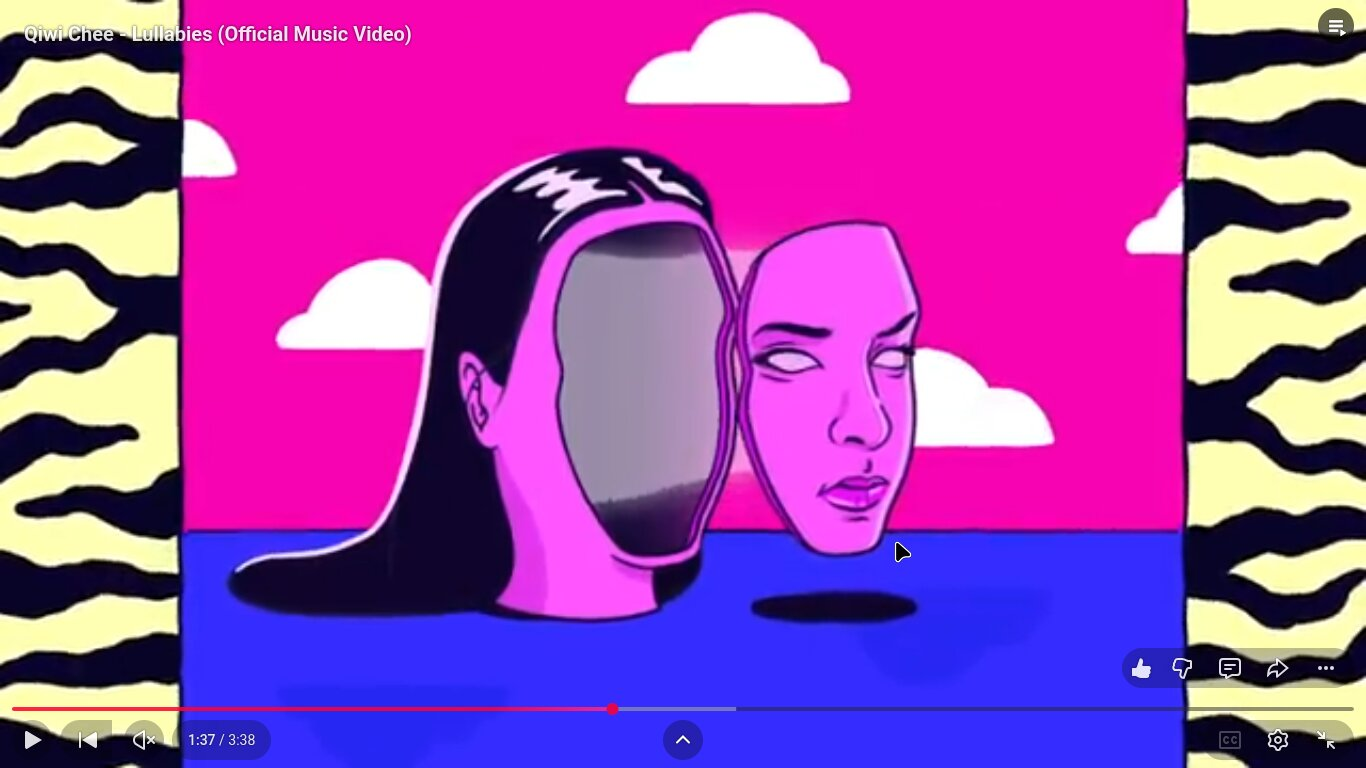
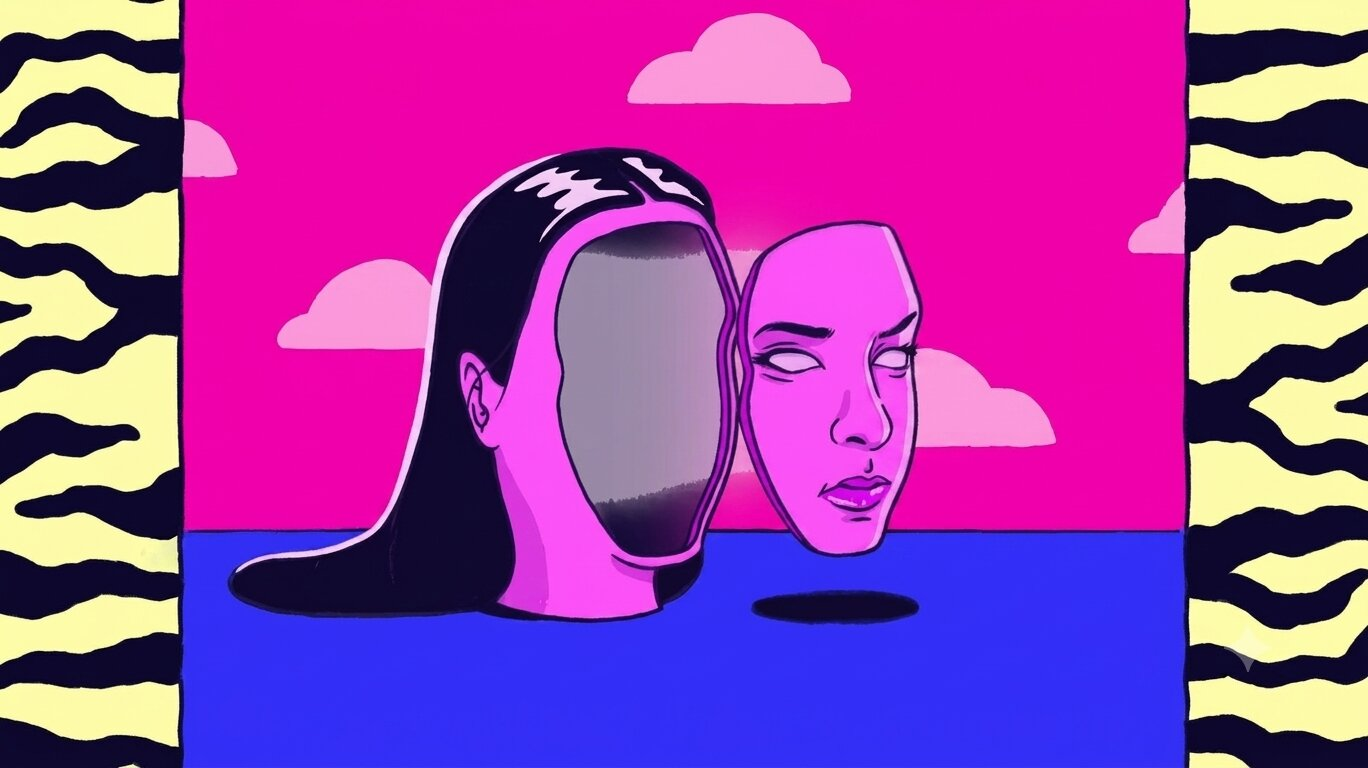
fix: single active player, card alignment, desktop arrows, overscroll, cleaner Lullabies visual

diff --git a/src/app/components/ReleaseSwitcher.tsx b/src/app/components/ReleaseSwitcher.tsx
@@ -27,6 +27,10 @@ const nameToIcon: Record<string, BrandName> = {
 export default function ReleaseSwitcher({ artistLinks }: ReleaseSwitcherProps) {
   const scrollerRef = useRef<HTMLDivElement>(null)
   const [activeIndex, setActiveIndex] = useState(0)
+  // Single active player: null = no embed playing.
+  const [activeEmbedSlug, setActiveEmbedSlug] = useState<string | null>(null)
+
+  const handleDeactivate = useCallback(() => setActiveEmbedSlug(null), [])
 
   // Hydration-safe random: DOM order is FIXED (canonical). Randomisation is ONLY
   // a scroll position applied after mount — SSR output is always deterministic.
@@ -43,7 +47,7 @@ export default function ReleaseSwitcher({ artistLinks }: ReleaseSwitcherProps) {
     setActiveIndex(randomIndex)
   }, [])
 
-  // One IntersectionObserver, two consumers: activeIndex state (dots) + aria-current.
+  // One IntersectionObserver, two consumers: activeIndex state (dots + arrows) + aria-current.
   useEffect(() => {
     const el = scrollerRef.current
     if (!el) return
@@ -64,6 +68,7 @@ export default function ReleaseSwitcher({ artistLinks }: ReleaseSwitcherProps) {
   }, [])
 
   const scrollToSlide = useCallback((index: number) => {
+    if (index < 0 || index >= releases.length) return
     const el = scrollerRef.current
     if (!el) return
     const slides = el.querySelectorAll<HTMLElement>('[data-release]')
@@ -75,61 +80,95 @@ export default function ReleaseSwitcher({ artistLinks }: ReleaseSwitcherProps) {
 
   return (
     <section aria-label="Musique — parcourir les sorties" className="mt-6">
-      {/* Scroll-snap container — tabIndex=0 enables arrow-key scrolling */}
-      <div
-        ref={scrollerRef}
-        role="group"
-        aria-roledescription="carrousel"
-        aria-label="Sorties"
-        tabIndex={0}
-        className="release-scroller flex overflow-x-auto gap-4 focus-visible:outline-none focus-visible:ring-2 focus-visible:ring-accent focus-visible:ring-offset-2 focus-visible:ring-offset-bg rounded-sm"
-      >
-        {releases.map((release, idx) => (
-          <div
-            key={release.slug}
-            data-release={release.slug}
-            role="group"
-            aria-label={`${release.title}, ${idx + 1} sur ${releases.length}`}
-            className="release-slide flex flex-col gap-4 pb-4"
-          >
-            {/* Title + descriptor */}
-            <div>
-              <h3 className="font-display text-xl font-semibold tracking-tight text-text">
-                {release.title}
-              </h3>
-              <p className="mt-1 text-sm text-muted">{release.descriptor}</p>
-              {release.date && (
-                <p className="text-xs text-muted">{release.date}</p>
-              )}
-            </div>
+      {/* Relative wrapper lets arrow buttons be absolutely positioned over carousel edges */}
+      <div className="relative">
+        {/* Scroll-snap container — tabIndex=0 enables arrow-key scrolling */}
+        <div
+          ref={scrollerRef}
+          role="group"
+          aria-roledescription="carrousel"
+          aria-label="Sorties"
+          tabIndex={0}
+          className="release-scroller flex overflow-x-auto gap-4 focus-visible:outline-none focus-visible:ring-2 focus-visible:ring-accent focus-visible:ring-offset-2 focus-visible:ring-offset-bg rounded-sm"
+        >
+          {releases.map((release, idx) => (
+            <div
+              key={release.slug}
+              data-release={release.slug}
+              role="group"
+              aria-label={`${release.title}, ${idx + 1} sur ${releases.length}`}
+              className="release-slide flex flex-col gap-4 pb-4"
+            >
+              {/* Title block — invisible date placeholder keeps all cards top-aligned
+                  when a release has no date (e.g. Lullabies). */}
+              <div>
+                <h3 className="font-display text-xl font-semibold tracking-tight text-text">
+                  {release.title}
+                </h3>
+                <p className="mt-1 text-sm text-muted">{release.descriptor}</p>
+                {release.date
+                  ? <p className="text-xs text-muted">{release.date}</p>
+                  : <p className="text-xs invisible" aria-hidden="true">{' '}</p>
+                }
+              </div>
 
-            {/* Artwork poster + lazy embed — artwork is the EmbedPlayer poster */}
-            <EmbedPlayer
-              asset={release.embed}
-              poster={release.artworkSrc}
-              posterAlt={release.artworkAlt}
-            />
+              {/* Artwork poster + lazy embed — controlled mode: only one iframe live at a time */}
+              <EmbedPlayer
+                asset={release.embed}
+                poster={release.artworkSrc}
+                posterAlt={release.artworkAlt}
+                isActive={activeEmbedSlug === release.slug}
+                onActivate={() => setActiveEmbedSlug(release.slug)}
+                onDeactivate={handleDeactivate}
+              />
 
-            {/* "Aussi sur →" — verified artist.links only (brief §5) */}
-            <div>
-              <p className="mb-2 text-xs font-medium text-muted">Aussi sur →</p>
-              <ul className="flex flex-wrap gap-1">
-                {artistLinks.map(({ name, href }) => (
-                  <li key={name}>
-                    <ExternalLink
-                      href={href}
-                      aria-label={`${release.title} sur ${name}, nouvel onglet`}
-                      showArrow={false}
-                      className="flex items-center justify-center rounded-md p-2.5 text-muted transition-colors duration-200 hover:text-accent focus-visible:outline-none focus-visible:ring-2 focus-visible:ring-accent focus-visible:ring-offset-2 focus-visible:ring-offset-bg"
-                    >
-                      <BrandIcon name={nameToIcon[name]} />
-                    </ExternalLink>
-                  </li>
-                ))}
-              </ul>
+              {/* "Aussi sur →" — verified artist.links only (brief §5) */}
+              <div>
+                <p className="mb-2 text-xs font-medium text-muted">Aussi sur →</p>
+                <ul className="flex flex-wrap gap-1">
+                  {artistLinks.map(({ name, href }) => (
+                    <li key={name}>
+                      <ExternalLink
+                        href={href}
+                        aria-label={`${release.title} sur ${name}, nouvel onglet`}
+                        showArrow={false}
+                        className="flex items-center justify-center rounded-md p-2.5 text-muted transition-colors duration-200 hover:text-accent focus-visible:outline-none focus-visible:ring-2 focus-visible:ring-accent focus-visible:ring-offset-2 focus-visible:ring-offset-bg"
+                      >
+                        <BrandIcon name={nameToIcon[name]} />
+                      </ExternalLink>
+                    </li>
+                  ))}
+                </ul>
+              </div>
             </div>
-          </div>
-        ))}
+          ))}
+        </div>
+
+        {/* Prev / Next arrow buttons — hidden on touch (pointer:coarse), shown on pointer:fine.
+            CSS handles visibility; no JS touch-sniffing. Disabled at hard ends (no wrap). */}
+        <button
+          type="button"
+          onClick={() => scrollToSlide(activeIndex - 1)}
+          disabled={activeIndex === 0}
+          aria-label="Sortie précédente"
+          className="carousel-arrow carousel-arrow--prev"
+        >
+          <svg aria-hidden="true" viewBox="0 0 24 24" fill="none" stroke="currentColor" strokeWidth="2.5" strokeLinecap="round" strokeLinejoin="round" className="h-5 w-5">
+            <polyline points="15,18 9,12 15,6" />
+          </svg>
+        </button>
+
+        <button
+          type="button"
+          onClick={() => scrollToSlide(activeIndex + 1)}
+          disabled={activeIndex === releases.length - 1}
+          aria-label="Sortie suivante"
+          className="carousel-arrow carousel-arrow--next"
+        >
+          <svg aria-hidden="true" viewBox="0 0 24 24" fill="none" stroke="currentColor" strokeWidth="2.5" strokeLinecap="round" strokeLinejoin="round" className="h-5 w-5">
+            <polyline points="9,18 15,12 9,6" />
+          </svg>
+        </button>
       </div>
 
       {/* Dot indicators — buttons, not divs; ≥44 px tap targets (WCAG 2.5.5) */}

diff --git a/src/app/components/EmbedPlayer.tsx b/src/app/components/EmbedPlayer.tsx
@@ -1,6 +1,6 @@
 'use client'
 
-import { useState } from 'react'
+import { useState, useRef, useCallback, useEffect } from 'react'
 import Image, { type StaticImageData } from 'next/image'
 import { getEmbedUrl } from '@/lib/media/mediaService'
 import type { MediaAsset } from '@/lib/media/types'
@@ -12,6 +12,11 @@ interface EmbedPlayerProps {
   locked?: boolean
   lockedLabel?: string
   caption?: string
+  // Controlled mode (optional): pass BOTH to enable single-active-player behaviour.
+  // Omitting both preserves the existing uncontrolled behaviour (Atelier clip, standalone use).
+  isActive?: boolean
+  onActivate?: () => void
+  onDeactivate?: () => void
 }
 
 function PosterArea({
@@ -50,14 +55,41 @@ export default function EmbedPlayer({
   locked = false,
   lockedLabel,
   caption,
+  isActive,
+  onActivate,
+  onDeactivate,
 }: EmbedPlayerProps) {
-  const [playing, setPlaying] = useState(false)
+  const [internalPlaying, setInternalPlaying] = useState(false)
+  const isControlled = isActive !== undefined && onActivate !== undefined
+  // In controlled mode the parent drives the playing state; uncontrolled = local state.
+  const playing = isControlled ? (isActive ?? false) : internalPlaying
+  const iframeRef = useRef<HTMLIFrameElement>(null)
+
+  const handleReset = useCallback(() => {
+    if (isControlled) onDeactivate?.()
+    else setInternalPlaying(false)
+  }, [isControlled, onDeactivate])
+
+  // Best-effort iframe error + offline→online resilience (brief §4).
+  // Cross-origin internal errors are unobservable; we catch load errors and network recovery.
+  useEffect(() => {
+    if (!playing) return
+    const iframe = iframeRef.current
+    if (!iframe) return
+    iframe.addEventListener('error', handleReset)
+    window.addEventListener('online', handleReset)
+    return () => {
+      iframe.removeEventListener('error', handleReset)
+      window.removeEventListener('online', handleReset)
+    }
+  }, [playing, handleReset])
 
   return (
     <figure className="w-full">
       <div className="relative aspect-video w-full overflow-hidden rounded-lg border border-border">
         {playing && !locked ? (
           <iframe
+            ref={iframeRef}
             src={getEmbedUrl(asset)}
             title={asset.title}
             className="absolute inset-0 h-full w-full"
@@ -80,7 +112,7 @@ export default function EmbedPlayer({
         ) : (
           <button
             type="button"
-            onClick={() => setPlaying(true)}
+            onClick={() => { if (isControlled) onActivate!(); else setInternalPlaying(true) }}
             aria-label={`Lire : ${asset.title}`}
             className="group absolute inset-0 w-full focus-visible:outline-none focus-visible:ring-4 focus-visible:ring-accent focus-visible:ring-offset-2 focus-visible:ring-offset-bg"
           >

diff --git a/src/app/globals.css b/src/app/globals.css
@@ -61,12 +61,47 @@
   scroll-snap-type: x mandatory;
   -webkit-overflow-scrolling: touch; /* legacy iOS Safari momentum scroll */
   scrollbar-width: none;
+  /* Prevent overscroll past the last slide creating blank white space */
+  overscroll-behavior-x: contain;
 }
 .release-scroller::-webkit-scrollbar { display: none; }
 
 .release-slide {
   flex: 0 0 88%;       /* 88% width → ~12% peek of adjacent slide on each side */
   scroll-snap-align: center;
+}
+
+/* Desktop prev/next arrows — hidden on touch (pointer:coarse), revealed on fine pointer.
+   Absolutely positioned over carousel edges; full-height tap target (≥44px satisfied
+   by stretching top:0 bottom:0). Do NOT add display:flex here — media query handles it. */
+.carousel-arrow {
+  display: none;
+  position: absolute;
+  top: 0;
+  bottom: 0;
+  z-index: 1;
+  min-width: 44px;
+  align-items: center;
+  justify-content: center;
+  background: var(--bg);
+  color: var(--text);
+  border: none;
+  cursor: pointer;
+  padding: 0;
+}
+.carousel-arrow:disabled {
+  opacity: 0.25;
+  pointer-events: none;
+}
+.carousel-arrow:focus-visible {
+  outline: none;
+  box-shadow: 0 0 0 2px var(--accent), 0 0 0 4px var(--bg);
+}
+.carousel-arrow--prev { left: 0; }
+.carousel-arrow--next { right: 0; }
+
+@media (pointer: fine) {
+  .carousel-arrow { display: flex; }
 }
 
 /* ── Per-release palette overrides ─────────────────────────────────
